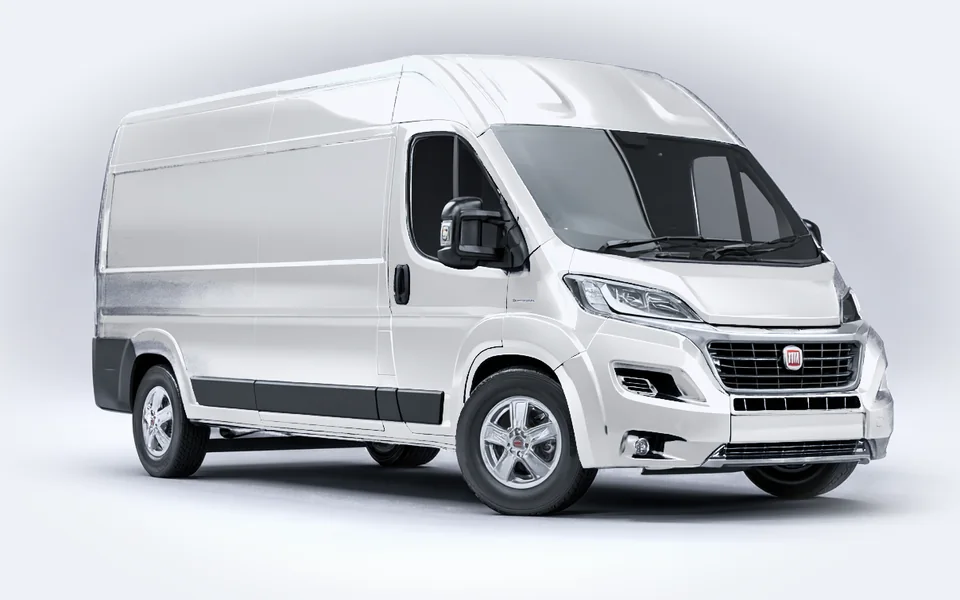
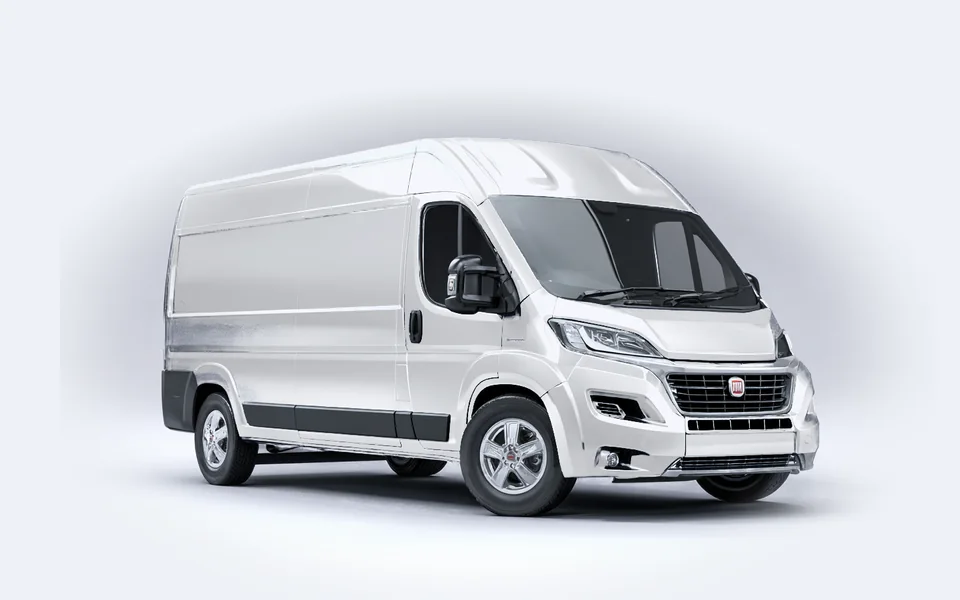
Van photos at the same visual size as tractors; plate spots moved with the framing

diff --git a/src/lib/fleet/truckPhoto.ts b/src/lib/fleet/truckPhoto.ts
@@ -39,11 +39,11 @@ export type VanBrand = 'ford' | 'citroen' | 'fiat' | 'vw' | 'mercedes';
 
 /* Номер на бампере фургона (кадр 960 × 600). */
 const VAN_PLATE: Record<VanBrand, { x: number; y: number; w: number; skew: number }> = {
-  ford: { x: 714, y: 433, w: 66, skew: -2 },
-  citroen: { x: 740, y: 425, w: 94, skew: -3 },
-  fiat: { x: 796, y: 402, w: 92, skew: -2 },
-  vw: { x: 742, y: 390, w: 86, skew: -3 },
-  mercedes: { x: 788, y: 430, w: 82, skew: -3 },
+  ford: { x: 672, y: 448, w: 54, skew: -2 },
+  citroen: { x: 693, y: 441, w: 77, skew: -3 },
+  fiat: { x: 739, y: 423, w: 75, skew: -2 },
+  vw: { x: 695, y: 413, w: 71, skew: -3 },
+  mercedes: { x: 733, y: 445, w: 67, skew: -3 },
 };
 
 const VAN_PATTERNS: [VanBrand, RegExp][] = [
